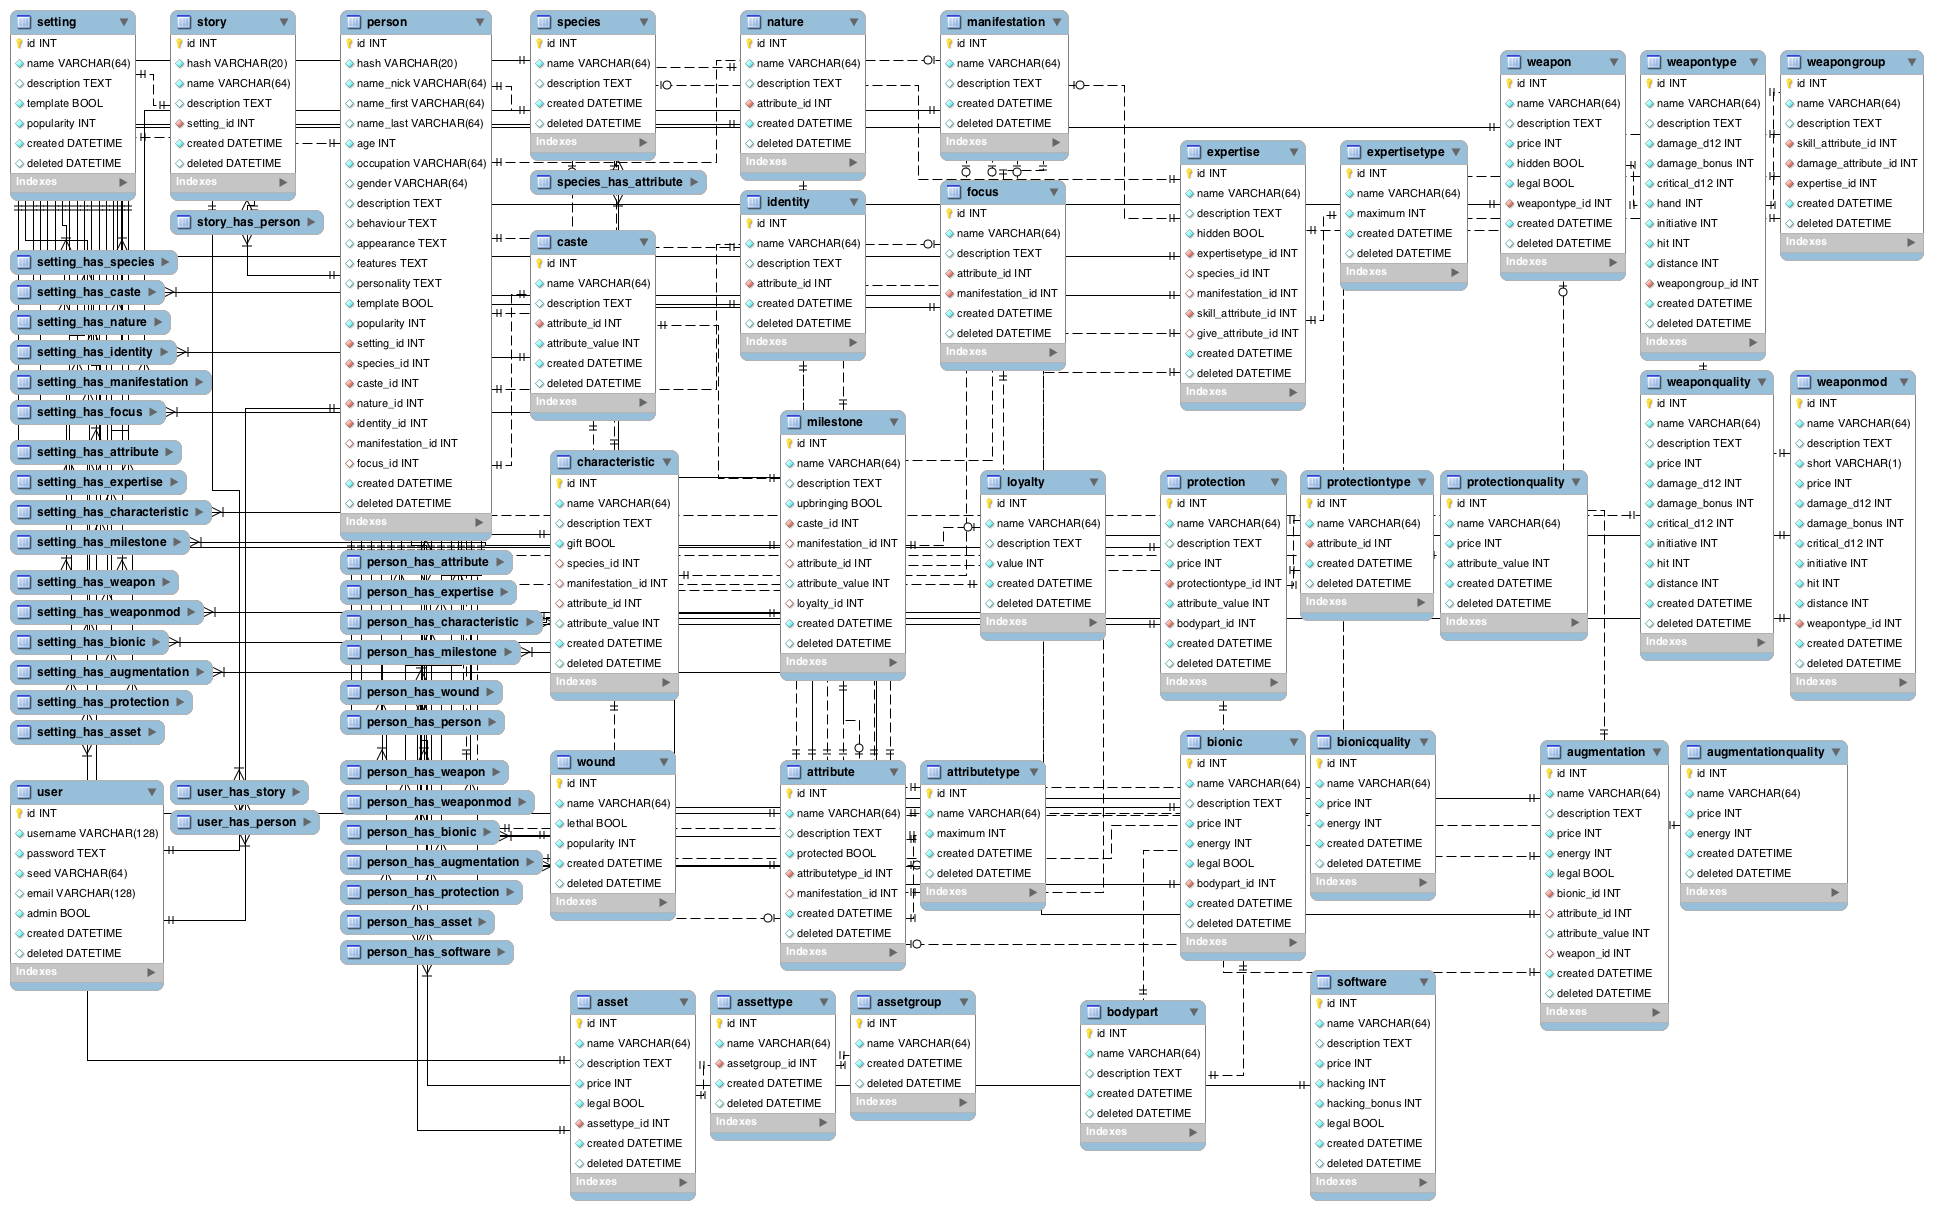
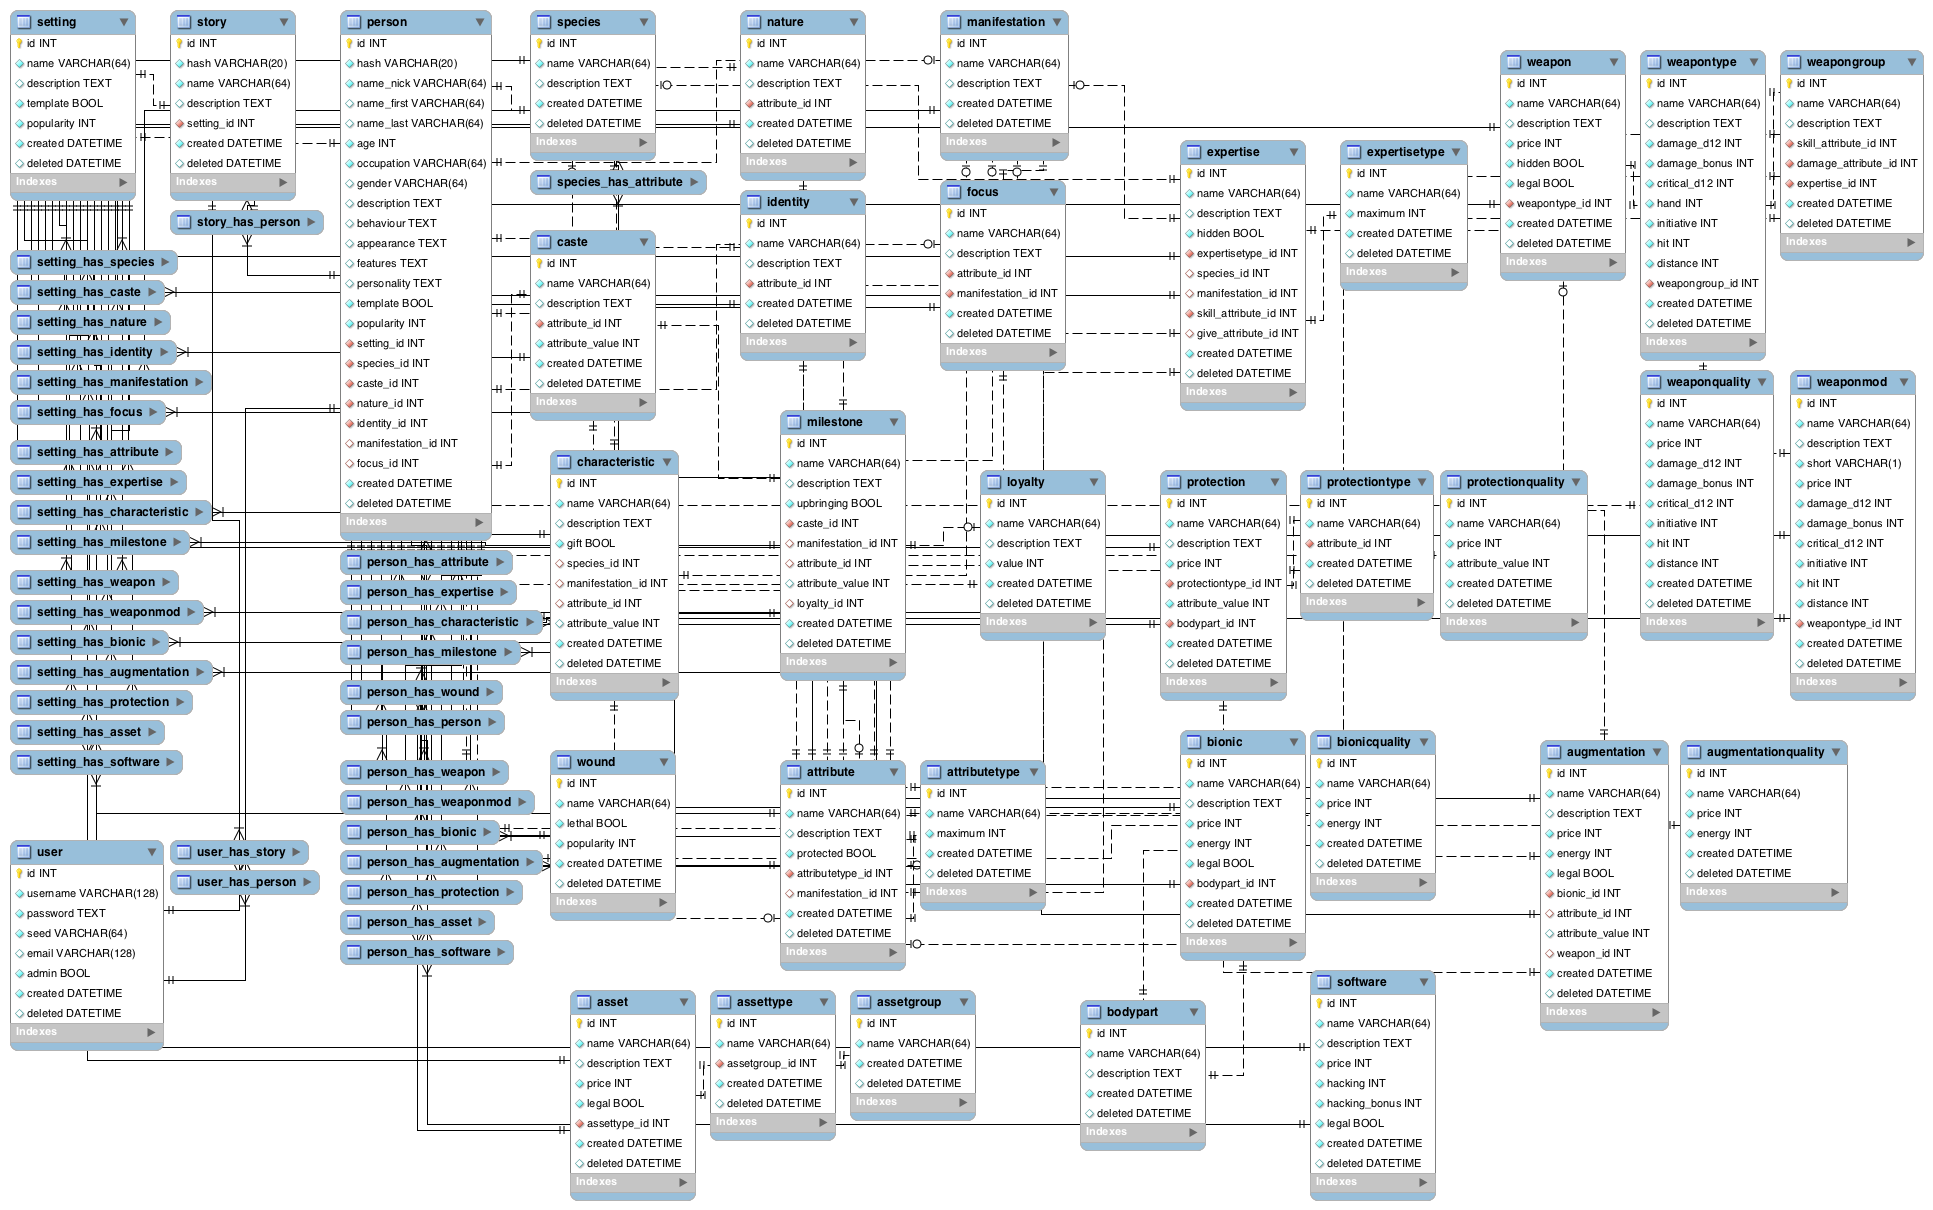
setting-software added setting has software

Changed region(s): [[0.0, 0.6116, 0.1862, 0.8868], [0.8381, 0.3669, 0.9312, 0.5504], [0.0, 0.1529, 0.0621, 0.214]]

diff --git a/test/setting/setting_has_software.js b/test/setting/setting_has_software.js
@@ -9,7 +9,7 @@ var chai = require('chai'),
 
 var testPOST = {
     setting_id: 1,
-    characteristic_id: 1
+    software_id: 1
 };
 
 var verifyData = function(data) {
@@ -19,23 +19,19 @@ var verifyData = function(data) {
         should.exist(item.id);
         should.exist(item.name);
         should.exist(item.description);
-        should.exist(item.gift);
-        should.exist(item.species_id);
-        should.exist(item.species_name);
-        should.exist(item.manifestation_id);
-        should.exist(item.manifestation_name);
-        should.exist(item.attribute_id);
-        should.exist(item.attribute_name);
-        should.exist(item.attribute_value);
+        should.exist(item.price);
+        should.exist(item.hacking);
+        should.exist(item.hacking_bonus);
+        should.exist(item.legal);
         should.exist(item.created);
         expect(item.deleted).to.be.a('null');
     });
 };
 
-describe('Setting has Characteristic', function() {
+describe('Setting has Software', function() {
 
     it('should successfully POST new row', function(done) {
-        api('/setting-characteristic', testPOST)
+        api('/setting-software', testPOST)
             .expect(201)
             .end(function(error, response) {
                 assert.ifError(error);
@@ -46,18 +42,7 @@ describe('Setting has Characteristic', function() {
     });
 
     it('should successfully GET all rows for setting', function(done) {
-        api('/setting-characteristic/id/' + testPOST.setting_id)
-            .expect(200)
-            .end(function(error, response) {
-                assert.ifError(error);
-                verifyData(response.body.success);
-
-                done();
-            });
-    });
-
-    it('should successfully GET all rows for setting, gift, species, and manifestation', function(done) {
-        api('/setting-characteristic/id/' + testPOST.setting_id + '/gift/1/species/1/manifestation/1')
+        api('/setting-software/id/' + testPOST.setting_id)
             .expect(200)
             .end(function(error, response) {
                 assert.ifError(error);

diff --git a/app/setting/setting_has_software.js b/app/setting/setting_has_software.js
@@ -1,0 +1,43 @@
+var rest = require('./../rest');
+
+module.exports = function(pool, router, table, path) {
+    path = path || '/' + table;
+
+    var query = 'SELECT ' +
+        'software.id, ' +
+        'software.name, ' +
+        'software.description, ' +
+        'software.price, ' +
+        'software.hacking, ' +
+        'software.hacking_bonus, ' +
+        'software.legal, ' +
+        'software.created, ' +
+        'software.deleted ' +
+        'FROM setting_has_software ' +
+        'LEFT JOIN software ON software.id = setting_has_software.software_id';
+
+    router.get(path + '/help', function(req, res) {
+        rest.HELP(pool, req, res, table);
+    });
+
+    router.get(path + '/id/:id', function(req, res) {
+        var call = query + ' WHERE ' +
+            'setting_has_software.setting_id = ? AND ' +
+            'software.deleted is null';
+
+        rest.QUERY(pool, req, res, call, [req.params.id]);
+    });
+
+    router.post(path, function(req, res) {
+        rest.INSERT(pool, req, res, table, req.body);
+    });
+
+    router.delete(path + '/id/:id1/id/:id2', function(req, res) {
+        var call = {
+            "setting_id": req.params.id1,
+            "software_id": req.params.id2
+        };
+
+        rest.REMOVE(pool, req, res, table, call);
+    });
+};

diff --git a/app/index.js b/app/index.js
@@ -67,6 +67,7 @@ module.exports = function(pool, router) {
     require('./setting/setting_has_milestone')(pool, router, 'setting_has_milestone', '/setting-milestone');
     require('./setting/setting_has_nature')(pool, router, 'setting_has_nature', '/setting-nature');
     require('./setting/setting_has_protection')(pool, router, 'setting_has_protection', '/setting-protection');
+    require('./setting/setting_has_software')(pool, router, 'setting_has_software', '/setting-software');
     require('./setting/setting_has_species')(pool, router, 'setting_has_species', '/setting-species');
     require('./setting/setting_has_weapon')(pool, router, 'setting_has_weapon', '/setting-weapon');
     require('./setting/setting_has_weaponmod')(pool, router, 'setting_has_weaponmod', '/setting-weaponmod');

diff --git a/test/standard/milestone.js b/test/standard/milestone.js
@@ -10,7 +10,7 @@ var chai = require('chai'),
 var testPOST = {
     name: r.rHEX(24),
     description: r.rHEX(64),
-    upbringing: r.rBOOL(),
+    upbringing: 1,
     caste_id: 1,
     manifestation_id: 1,
     attribute_id: 1,
@@ -21,7 +21,7 @@ var testPOST = {
 var testPUT = {
     name: r.rHEX(24),
     description: r.rHEX(64),
-    upbringing: r.rBOOL(),
+    upbringing: 1,
     caste_id: 1,
     manifestation_id: 1,
     attribute_id: 1,

diff --git a/test/index.js b/test/index.js
@@ -51,6 +51,7 @@ require('./setting/setting_has_manifestation');
 require('./setting/setting_has_milestone');
 require('./setting/setting_has_nature');
 require('./setting/setting_has_protection');
+require('./setting/setting_has_software');
 require('./setting/setting_has_species');
 require('./setting/setting_has_weapon');
 require('./setting/setting_has_weaponmod');

diff --git a/test/standard/characteristic.js b/test/standard/characteristic.js
@@ -20,7 +20,7 @@ var testPOST = {
 var testPUT = {
     name: r.rHEX(24),
     description: r.rHEX(64),
-    gift: r.rBOOL(),
+    gift: 1,
     species_id: 1,
     manifestation_id: 1,
     attribute_id: 1,
